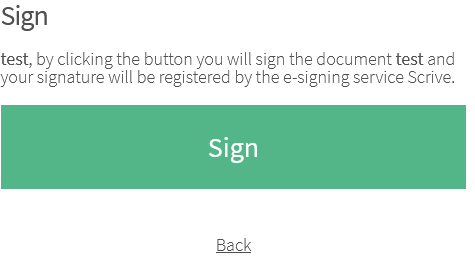
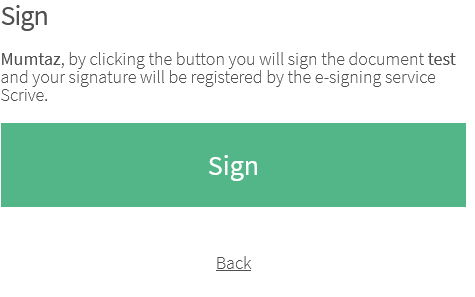
allure reports integrated

diff --git a/tests/test_chrome.py b/tests/test_chrome.py
@@ -1,3 +1,4 @@
+from allure_commons.types import AttachmentType
 from selenium import webdriver
 import time
 from selenium.webdriver.common.by import By
@@ -6,14 +7,14 @@ from selenium.webdriver.chrome.options import Options
 from selenium.common.exceptions import TimeoutException
 from selenium.webdriver.support.ui import WebDriverWait
 from selenium.webdriver.support import expected_conditions as EC
-
+import allure
 
 
 
 
 
 import pytest
-
+@allure.severity(allure.severity_level.NORMAL)
 class TestChrome():
     @pytest.fixture()
     def test_setup(self):
@@ -41,6 +42,7 @@ class TestChrome():
         driver.implicitly_wait(2)
         print("Chrome Testing Started")
         driver.get("https://staging.scrive.com/t/9221714692410699950/7348c782641060a9")
+        allure.attach(driver.get_screenshot_as_png(), name="URL", attachment_type= AttachmentType.PNG)
         driver.maximize_window()
         yield
         driver.close()
@@ -51,10 +53,12 @@ class TestChrome():
 
     def test_enterName(self, test_setup):
         # Enter Full name
-        driver.find_element_by_xpath("//input[@id='name']").send_keys("test")
+        driver.find_element_by_xpath("//input[@id='name']").send_keys("Dan")
+        allure.attach(driver.get_screenshot_as_png(), name="Enter Name", attachment_type=AttachmentType.PNG)
         time.sleep(2)
         print("Name entered")
         driver.find_element_by_xpath("//a[@class='button button-block action']").click()
+        allure.attach(driver.get_screenshot_as_png(), name="Next Button Clicked", attachment_type=AttachmentType.PNG)
         print("Next Button clicked")
         time.sleep(2)
 
@@ -64,8 +68,10 @@ class TestChrome():
 #         driver.set_window_size(S('Width'), S('Height'))
         driver.find_element_by_xpath("//div[@class='col-xs-6 center-block']").screenshot('sign-chrome.png')
         time.sleep(2)
+        allure.attach(driver.get_screenshot_as_png(), name="ScreenShot taken", attachment_type=AttachmentType.PNG)
         print("Screenshot taken ")
         driver.find_element_by_xpath("//a[@class='button button-block sign-button action']").click()
+        allure.attach(driver.get_screenshot_as_png(), name="Sign", attachment_type=AttachmentType.PNG)
         time.sleep(2)
         print("Sign button clicked")
 # -----------------------End Taking Screen Shot-------------------------------------------
@@ -76,6 +82,7 @@ class TestChrome():
             element_present = EC.presence_of_element_located((By.XPATH, "//span[contains(text(),'Document signed')]"))
             a = WebDriverWait(driver, timeout).until(element_present)
             assert a.text == "Document signed!"
+            allure.attach(driver.get_screenshot_as_png(), name="text validation", attachment_type=AttachmentType.PNG)
             print(f"{a.text}:present")
         except TimeoutException:
             print
@@ -86,3 +93,7 @@ class TestChrome():
 # run test pytest -v for more detail'
 #pip install pytest-xdist for parallel testing
 # run: py.test tests/ -v -s --cov --cov-report=html
+
+# Allure reports
+# py.test tests/test_chrome.py -v -s --alluredir=./reports
+# then C:\Allure\bin>allure serve F:\scrive\Assignment\reports

diff --git a/tests/test_firefox.py b/tests/test_firefox.py
@@ -1,3 +1,5 @@
+import allure
+from allure_commons.types import AttachmentType
 from selenium import webdriver
 import time
 from selenium.webdriver.common.by import By
@@ -40,6 +42,7 @@ class TestFirefox():
 
         driver.implicitly_wait(2)
         driver.get("https://staging.scrive.com/t/9221714692410699950/7348c782641060a9")
+        allure.attach(driver.get_screenshot_as_png(), name="URL", attachment_type=AttachmentType.PNG)
         driver.maximize_window()
 
         yield
@@ -54,10 +57,12 @@ class TestFirefox():
 
     def test_enterName1(self, test_setup1):
 
-        driver.find_element_by_xpath("//input[@id='name']").send_keys("test")
+        driver.find_element_by_xpath("//input[@id='name']").send_keys("Mumtaz")
+        allure.attach(driver.get_screenshot_as_png(), name="Enter Name", attachment_type=AttachmentType.PNG)
         print("Name entered")
         time.sleep(2)
         driver.find_element_by_xpath("//a[@class='button button-block action']").click()
+        allure.attach(driver.get_screenshot_as_png(), name="Next Button Clicked", attachment_type=AttachmentType.PNG)
         print("Next Button clicked")
         time.sleep(2)
         # for screen shot
@@ -65,9 +70,11 @@ class TestFirefox():
         # S = lambda X: driver.execute_script("return document.body.parentNode.scroll"+X)
         # driver.set_window_size(S('Width'), S('Height'))
         driver.find_element_by_xpath("//div[@class='col-xs-6 center-block']").screenshot('sign-firefox.png')
+        allure.attach(driver.get_screenshot_as_png(), name="ScreenShot taken", attachment_type=AttachmentType.PNG)
         # time.sleep(4)
         print("Screenshot taken ")
         driver.find_element_by_xpath("//a[@class='button button-block sign-button action']").click()
+        allure.attach(driver.get_screenshot_as_png(), name="Sign", attachment_type=AttachmentType.PNG)
         print("Sign button clicked")
         time.sleep(4)
 
@@ -76,6 +83,7 @@ class TestFirefox():
             element_present = EC.presence_of_element_located((By.XPATH, "//span[contains(text(),'Document signed')]"))
             a = WebDriverWait(driver, timeout).until(element_present)
             assert a.text == "Document signed!"
+            allure.attach(driver.get_screenshot_as_png(), name="text validation", attachment_type=AttachmentType.PNG)
             print(f"{a.text}:present")
 
         except TimeoutException:

diff --git a/tests/test_browserStak.py b/tests/test_browserStak.py
@@ -1,3 +1,5 @@
+import allure
+from allure_commons.types import AttachmentType
 from selenium import webdriver
 from selenium.webdriver.common.keys import Keys
 from selenium.webdriver.common.desired_capabilities import DesiredCapabilities
@@ -32,6 +34,7 @@ class TestBrowserStack_IE11():
         desired_capabilities=desired_cap)
         driver.implicitly_wait(2)
         driver.get("https://staging.scrive.com/t/9221714692410699950/7348c782641060a9")
+        allure.attach(driver.get_screenshot_as_png(), name="URL", attachment_type=AttachmentType.PNG)
         driver.maximize_window()
         yield
         driver.close()
@@ -42,24 +45,29 @@ class TestBrowserStack_IE11():
 
     def test_enterName1(self, test_setup):
 
-        driver.find_element_by_xpath("//input[@id='name']").send_keys("test")
+        driver.find_element_by_xpath("//input[@id='name']").send_keys("Danial")
+        allure.attach(driver.get_screenshot_as_png(), name="Enter Name", attachment_type=AttachmentType.PNG)
         print("Name entered")
         time.sleep(2)
         driver.find_element_by_xpath("//a[@class='button button-block action']").click()
+        allure.attach(driver.get_screenshot_as_png(), name="Next Button Clicked", attachment_type=AttachmentType.PNG)
         print("Next Button clicked")
         time.sleep(2)
         # for screen shot
         # ----------------------------
         # driver.find_element_by_xpath("//div[@class='col-xs-6 center-block']").screenshot('browserStack.png')
         # time.sleep(4)
+        # allure.attach(driver.get_screenshot_as_png(), name="ScreenShot taken", attachment_type=AttachmentType.PNG)
         # print("Screenshot taken ")
         driver.find_element_by_xpath("//a[@class='button button-block sign-button action']").click()
+        allure.attach(driver.get_screenshot_as_png(), name="Sign", attachment_type=AttachmentType.PNG)
         print("Sign button clicked")
         timeout = 5
         try:
             element_present = EC.presence_of_element_located((By.XPATH, "//span[contains(text(),'Document signed')]"))
             a = WebDriverWait(driver, timeout).until(element_present)
             assert a.text == "Document signed!"
+            allure.attach(driver.get_screenshot_as_png(), name="text validation", attachment_type=AttachmentType.PNG)
             print(f"{a.text}:present")
 
         except TimeoutException:
